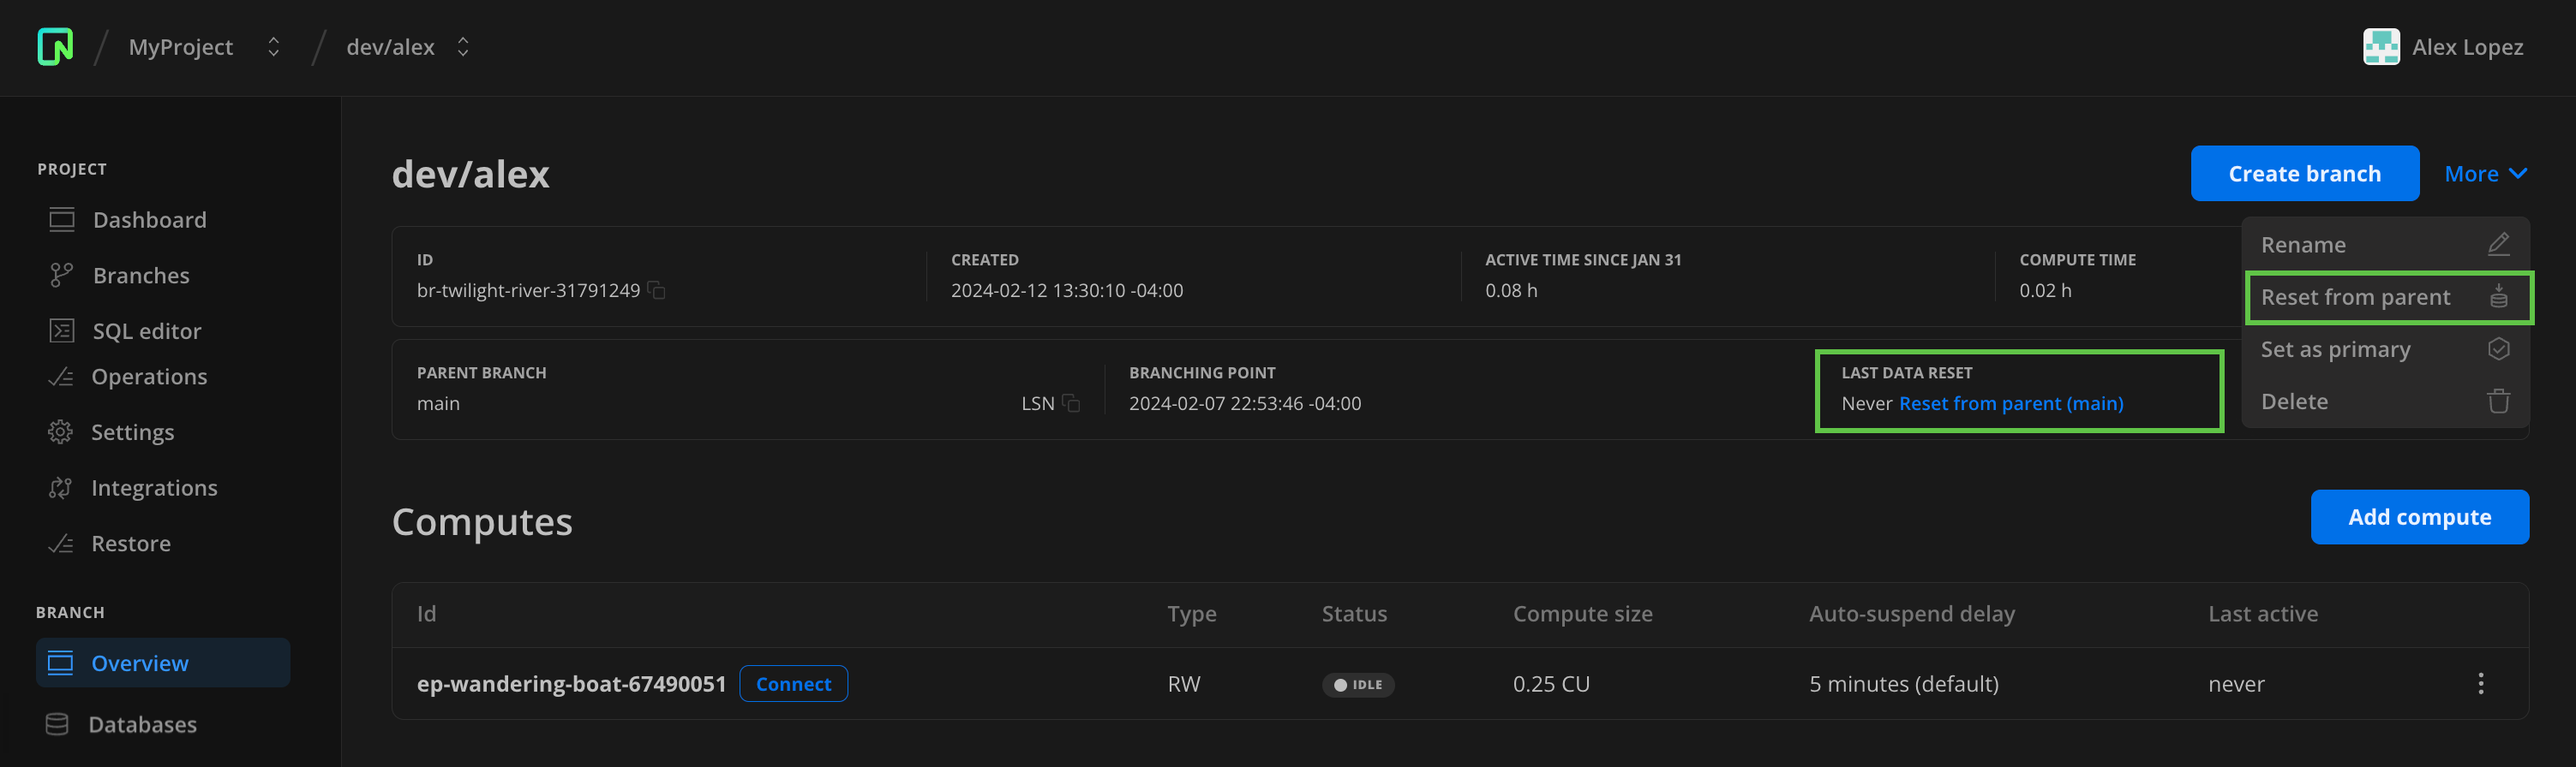
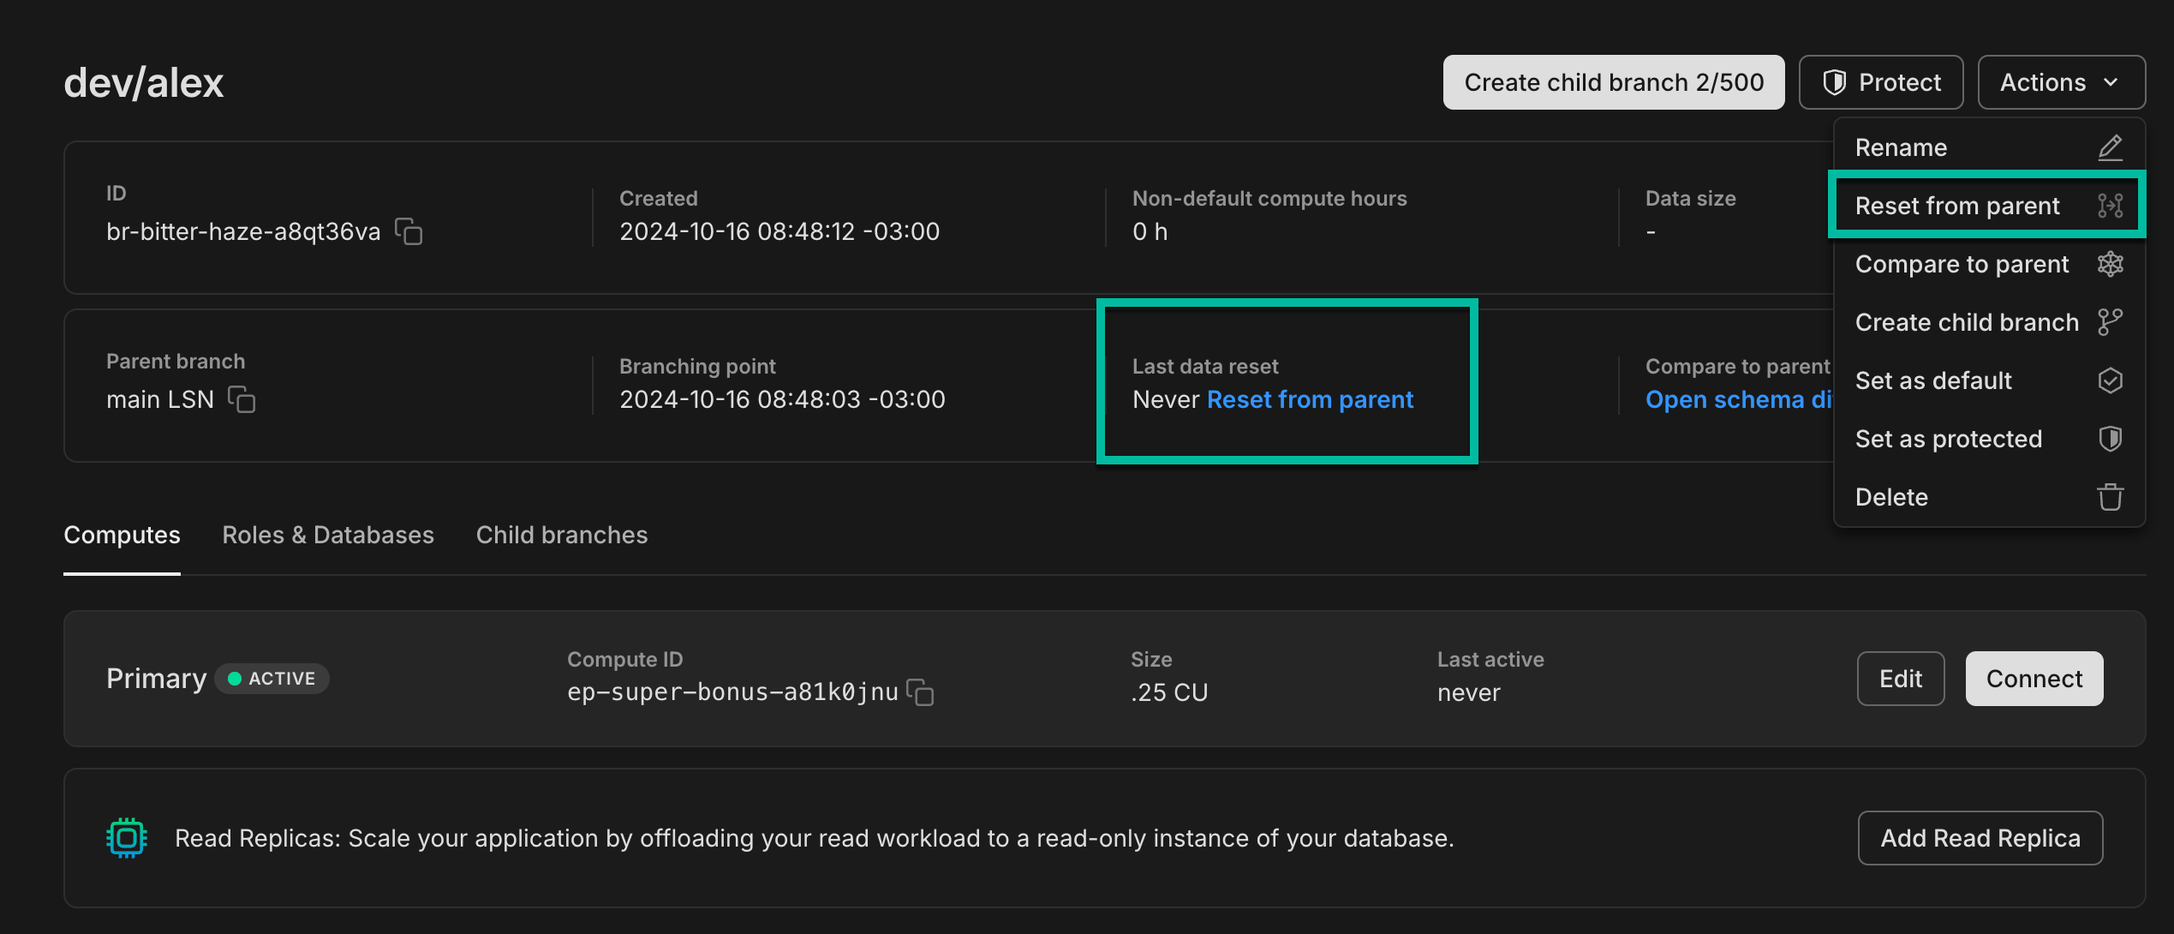
docs: update menu name

diff --git a/content/docs/guides/reset-from-parent.md b/content/docs/guides/reset-from-parent.md
@@ -36,7 +36,7 @@ On the **Branches** page in the Neon Console, select the branch that you want to
 
 The console opens to the details page for your branch, giving you key information about the branch and its child status: its parent, the last time it was reset, and other relevent detail.
 
-To reset the branch, select **Reset from parent** from either the **More** dropdown or the **Last Data Reset** panel.
+To reset the branch, select **Reset from parent** from the **Actions** menu or the **Last data reset** panel.
 
 ![Reset from parent](/docs/manage/reset_from_parent.png)
 

diff --git a/content/docs/guides/protected-branches.md b/content/docs/guides/protected-branches.md
@@ -158,6 +158,6 @@ After you've selected the protected branches option, click **Save changes** to a
 
 ## Remove branch protection
 
-Removing a protected branch designation can be performed by selecting **Set as unprotected** from the **More** drop-down menu on the branch page.
+Removing a protected branch designation can be performed by selecting **Set as unprotected** from the **Actions** menu on the branch page.
 
 <NeedHelp/>
